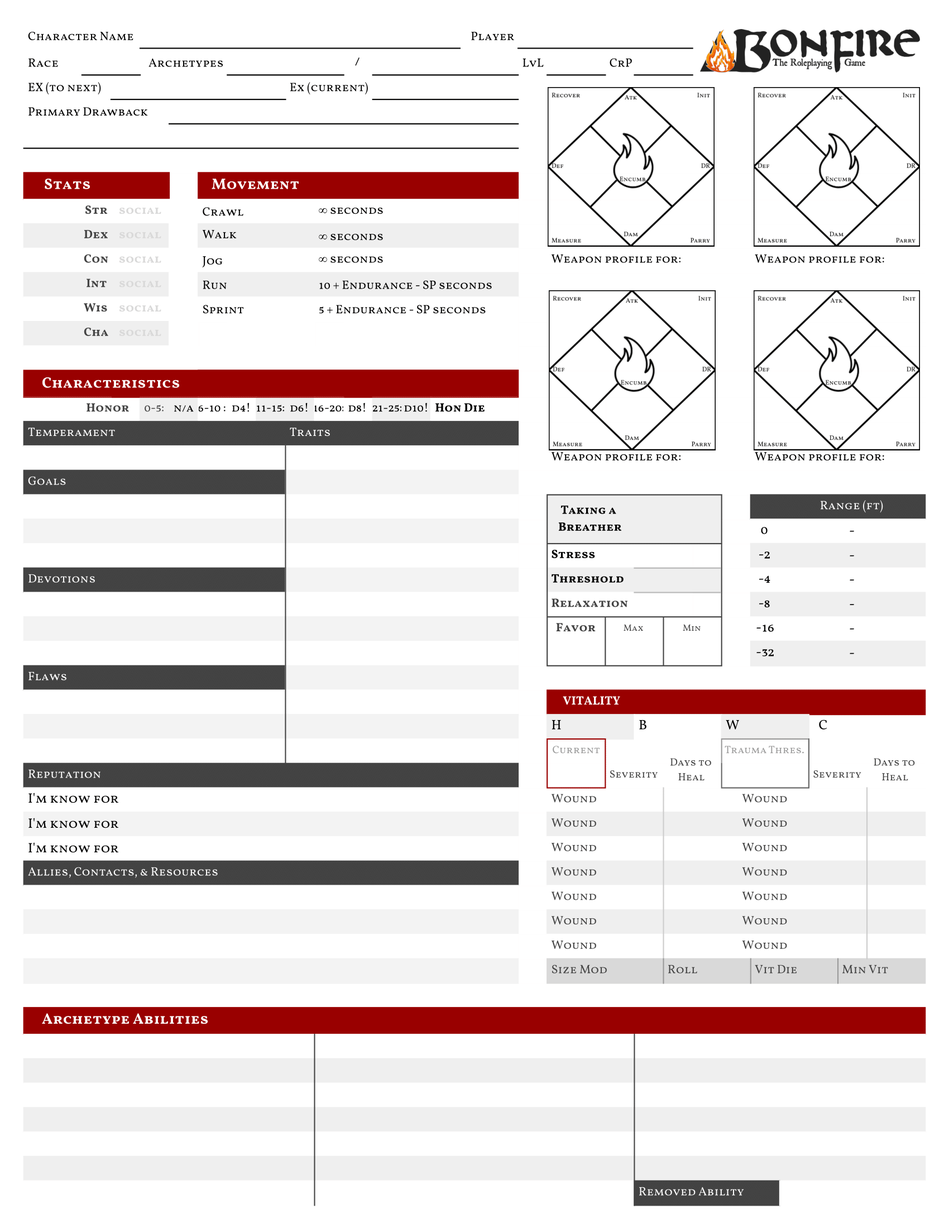
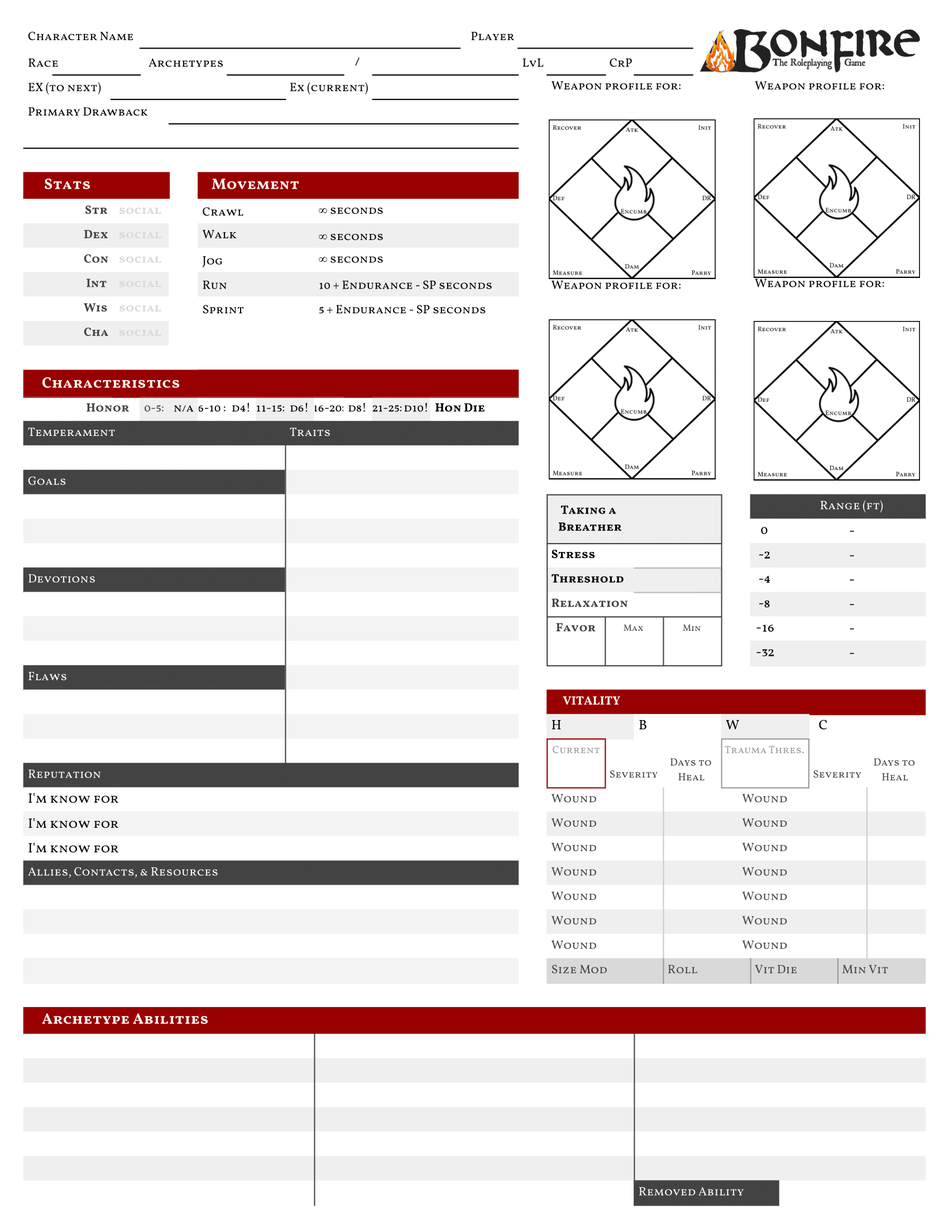
minimum weapon speeds are now considered for weapons

Changed region(s): [[0.7794, 0.0618, 0.9665, 0.4018], [0.5612, 0.0618, 0.7482, 0.4018], [0.7482, 0.0309, 0.7794, 0.0618]]

diff --git a/src/components/character/views/editor.js b/src/components/character/views/editor.js
@@ -199,6 +199,7 @@ render() {
                         <input className="baserecoveryLocation" type="number" defaultValue={onebaserecovery} onChange={event => this.updateAttribute(event.target.value, "onebaserecovery")} />
                         <input className="baseparryLocation" type="number" defaultValue={onebaseparry} onChange={event => this.updateAttribute(event.target.value, "onebaseparry")} />
                         <input className="basemeasureLocation" type="text" defaultValue={onebasemeasure} onChange={event => this.updateAttribute(event.target.value, "onebasemeasure")} />
+                        <input className="basesizeLocation" type="text" defaultValue={onesize} onChange={event => this.updateAttribute(event.target.value, "onesize")} />
                         <input className="typeLocation" type="text" defaultValue={onetype} onChange={event => this.updateAttribute(event.target.value, "onetype")} />
                         <textarea className="bonusLocation bonustextArea" defaultValue={onebonus} onChange={event => this.updateAttribute(event.target.value, "onebonus")} maxLength={"55"}></textarea>
                         <textarea className="traitsLocation traitstextArea" defaultValue={onetraits} onChange={event => this.updateAttribute(event.target.value, "onetraits")} maxLength={"35"}></textarea>
@@ -218,63 +219,66 @@ render() {
                     <div className="weaponProfiletwo">
                         <input className="weaponnameLocation" type="text" defaultValue={twoname} onChange={event => this.updateAttribute(event.target.value, "twoname")} />
                         <input className="basedamageLocation" type="text" defaultValue={twobasedamage} onChange={event => this.updateAttribute(event.target.value, "twobasedamage")} />
-                        <input className="baserecoveryLocation" type="number" defaultValue={twobaserecovery} onChange={event => this.updateAttribute(event.target.value, "twobaserecovery")} />
+                        <input className="baserecoveryLocation" type="number" defaultValue={twobaserecovery} onChange={event => this.updateAttribute(+event.target.value, "twobaserecovery")} />
                         <input className="baseparryLocation" type="number" defaultValue={twobaseparry} onChange={event => this.updateAttribute(event.target.value, "twobaseparry")} />
                         <input className="basemeasureLocation" type="text" defaultValue={twobasemeasure} onChange={event => this.updateAttribute(event.target.value, "twobasemeasure")} />
+                        <input className="basesizeLocation" type="text" defaultValue={twosize} onChange={event => this.updateAttribute(event.target.value, "twosize")} />
                         <input className="typeLocation" type="text" defaultValue={twotype} onChange={event => this.updateAttribute(event.target.value, "twotype")} />
                         <textarea className="bonusLocation bonustextArea" defaultValue={twobonus} onChange={event => this.updateAttribute(event.target.value, "twobonus")} maxLength={"55"}></textarea>
                         <textarea className="traitsLocation traitstextArea" defaultValue={twotraits} onChange={event => this.updateAttribute(event.target.value, "twotraits")} maxLength={"35"}></textarea>
 
-                        <input className="trainattackLocation" type="number" defaultValue={twotrainattack} onChange={event => this.updateAttribute(event.target.value, "twotrainattack")} />
-                        <input className="trainrecoveryLocation" type="number" defaultValue={twotrainrecovery} onChange={event => this.updateAttribute(event.target.value, "twotrainrecovery")} />
-                        <input className="trainparryLocation" type="number" defaultValue={twotrainparry} onChange={event => this.updateAttribute(event.target.value, "twotrainparry")} />
-                        <input className="traindamageLocation" type="number" defaultValue={twotraindamage} onChange={event => this.updateAttribute(event.target.value, "twotraindamage")} />
+                        <input className="trainattackLocation" type="number" defaultValue={twotrainattack} onChange={event => this.updateAttribute(+event.target.value, "twotrainattack")} />
+                        <input className="trainrecoveryLocation" type="number" defaultValue={twotrainrecovery} onChange={event => this.updateAttribute(+event.target.value, "twotrainrecovery")} />
+                        <input className="trainparryLocation" type="number" defaultValue={twotrainparry} onChange={event => this.updateAttribute(+event.target.value, "twotrainparry")} />
+                        <input className="traindamageLocation" type="number" defaultValue={twotraindamage} onChange={event => this.updateAttribute(+event.target.value, "twotraindamage")} />
 
-                        <input className="miscattackLocation" type="number" defaultValue={twomiscattack} onChange={event => this.updateAttribute(event.target.value, "twomiscattack")} />
-                        <input className="miscrecoveryLocation" type="number" defaultValue={twomiscrecovery} onChange={event => this.updateAttribute(event.target.value, "twomiscrecovery")} />
-                        <input className="miscparryLocation" type="number" defaultValue={twomiscparry} onChange={event => this.updateAttribute(event.target.value, "twomiscparry")} />
-                        <input className="miscdamageLocation" type="number" defaultValue={twomiscdamage} onChange={event => this.updateAttribute(event.target.value, "twomiscdamage")} />
-                        <input className="miscinitLocation" type="number" defaultValue={twomiscinit} onChange={event => this.updateAttribute(event.target.value, "twomiscinit")} />
+                        <input className="miscattackLocation" type="number" defaultValue={twomiscattack} onChange={event => this.updateAttribute(+event.target.value, "twomiscattack")} />
+                        <input className="miscrecoveryLocation" type="number" defaultValue={twomiscrecovery} onChange={event => this.updateAttribute(+event.target.value, "twomiscrecovery")} />
+                        <input className="miscparryLocation" type="number" defaultValue={twomiscparry} onChange={event => this.updateAttribute(+event.target.value, "twomiscparry")} />
+                        <input className="miscdamageLocation" type="number" defaultValue={twomiscdamage} onChange={event => this.updateAttribute(+event.target.value, "twomiscdamage")} />
+                        <input className="miscinitLocation" type="number" defaultValue={twomiscinit} onChange={event => this.updateAttribute(+event.target.value, "twomiscinit")} />
                     </div>
 
                     <div className="weaponProfilethree">
                         <input className="weaponnameLocation" type="text" defaultValue={threename} onChange={event => this.updateAttribute(event.target.value, "threename")} />
                         <input className="basedamageLocation" type="text" defaultValue={threebasedamage} onChange={event => this.updateAttribute(event.target.value, "threebasedamage")} />
-                        <input className="baserecoveryLocation" type="number" defaultValue={threebaserecovery} onChange={event => this.updateAttribute(event.target.value, "threebaserecovery")} />
+                        <input className="baserecoveryLocation" type="number" defaultValue={threebaserecovery} onChange={event => this.updateAttribute(+event.target.value, "threebaserecovery")} />
                         <input className="baseparryLocation" type="number" defaultValue={threebaseparry} onChange={event => this.updateAttribute(event.target.value, "threebaseparry")} />
                         <input className="basemeasureLocation" type="text" defaultValue={threebasemeasure} onChange={event => this.updateAttribute(event.target.value, "threebasemeasure")} />
+                        <input className="basesizeLocation" type="text" defaultValue={threesize} onChange={event => this.updateAttribute(event.target.value, "threesize")} />
                         <input className="typeLocation" type="text" defaultValue={threetype} onChange={event => this.updateAttribute(event.target.value, "threetype")} />
                         <textarea className="bonusLocation bonustextArea" defaultValue={threebonus} onChange={event => this.updateAttribute(event.target.value, "threebonus")} maxLength={"55"}></textarea>
                         <textarea className="traitsLocation traitstextArea" defaultValue={threetraits} onChange={event => this.updateAttribute(event.target.value, "threetraits")} maxLength={"35"}></textarea>
 
-                        <input className="trainattackLocation" type="number" defaultValue={threetrainattack} onChange={event => this.updateAttribute(event.target.value, "threetrainattack")} />
-                        <input className="trainrecoveryLocation" type="number" defaultValue={threetrainrecovery} onChange={event => this.updateAttribute(event.target.value, "threetrainrecovery")} />
-                        <input className="trainparryLocation" type="number" defaultValue={threetrainparry} onChange={event => this.updateAttribute(event.target.value, "threetrainparry")} />
-                        <input className="traindamageLocation" type="number" defaultValue={threetraindamage} onChange={event => this.updateAttribute(event.target.value, "threetraindamage")} />
+                        <input className="trainattackLocation" type="number" defaultValue={threetrainattack} onChange={event => this.updateAttribute(+event.target.value, "threetrainattack")} />
+                        <input className="trainrecoveryLocation" type="number" defaultValue={threetrainrecovery} onChange={event => this.updateAttribute(+event.target.value, "threetrainrecovery")} />
+                        <input className="trainparryLocation" type="number" defaultValue={threetrainparry} onChange={event => this.updateAttribute(+event.target.value, "threetrainparry")} />
+                        <input className="traindamageLocation" type="number" defaultValue={threetraindamage} onChange={event => this.updateAttribute(+event.target.value, "threetraindamage")} />
 
-                        <input className="miscattackLocation" type="number" defaultValue={threemiscattack} onChange={event => this.updateAttribute(event.target.value, "threemiscattack")} />
-                        <input className="miscrecoveryLocation" type="number" defaultValue={threemiscrecovery} onChange={event => this.updateAttribute(event.target.value, "threemiscrecovery")} />
-                        <input className="miscparryLocation" type="number" defaultValue={threemiscparry} onChange={event => this.updateAttribute(event.target.value, "threemiscparry")} />
-                        <input className="miscdamageLocation" type="number" defaultValue={threemiscdamage} onChange={event => this.updateAttribute(event.target.value, "threemiscdamage")} />
-                        <input className="miscinitLocation" type="number" defaultValue={threemiscinit} onChange={event => this.updateAttribute(event.target.value, "threemiscinit")} />
+                        <input className="miscattackLocation" type="number" defaultValue={threemiscattack} onChange={event => this.updateAttribute(+event.target.value, "threemiscattack")} />
+                        <input className="miscrecoveryLocation" type="number" defaultValue={threemiscrecovery} onChange={event => this.updateAttribute(+event.target.value, "threemiscrecovery")} />
+                        <input className="miscparryLocation" type="number" defaultValue={threemiscparry} onChange={event => this.updateAttribute(+event.target.value, "threemiscparry")} />
+                        <input className="miscdamageLocation" type="number" defaultValue={threemiscdamage} onChange={event => this.updateAttribute(+event.target.value, "threemiscdamage")} />
+                        <input className="miscinitLocation" type="number" defaultValue={threemiscinit} onChange={event => this.updateAttribute(+event.target.value, "threemiscinit")} />
                     </div>
 
                     <div className="weaponProfilefour">
                         <input className="weaponnameLocation weaponnamefour" type="text" defaultValue={fourname} onChange={event => this.updateAttribute(event.target.value, "fourname")} />
                         <input className="basedamageLocation basedamagefour" type="text" defaultValue={fourbasedamage} onChange={event => this.updateAttribute(event.target.value, "fourbasedamage")} />
-                        <input className="baserecoveryLocation" type="number" defaultValue={fourbaserecovery} onChange={event => this.updateAttribute(event.target.value, "fourbaserecovery")} />
+                        <input className="baserecoveryLocation" type="number" defaultValue={fourbaserecovery} onChange={event => this.updateAttribute(+event.target.value, "fourbaserecovery")} />
                         <input className="typeLocation typefour" type="text" defaultValue={fourtype} onChange={event => this.updateAttribute(event.target.value, "fourtype")} />
+                        <input className="basesizeLocation sizefour" type="text" defaultValue={foursize} onChange={event => this.updateAttribute(event.target.value, "foursize")} />
                         <textarea className="bonusLocation bonustextArea bonusfour" defaultValue={fourbonus} onChange={event => this.updateAttribute(event.target.value, "fourbonus")} maxLength={"80"}></textarea>
                         <textarea className="traitsLocation traitstextArea traitsfour" defaultValue={fourtraits} onChange={event => this.updateAttribute(event.target.value, "fourtraits")} maxLength={"50"}></textarea>
 
-                        <input className="trainattackLocation" type="number" defaultValue={fourtrainattack} onChange={event => this.updateAttribute(event.target.value, "fourtrainattack")} />
-                        <input className="trainrecoveryLocation" type="number" defaultValue={fourtrainrecovery} onChange={event => this.updateAttribute(event.target.value, "fourtrainrecovery")} />
-                        <input className="traindamageLocation" type="number" defaultValue={fourtraindamage} onChange={event => this.updateAttribute(event.target.value, "fourtraindamage")} />
+                        <input className="trainattackLocation" type="number" defaultValue={fourtrainattack} onChange={event => this.updateAttribute(+event.target.value, "fourtrainattack")} />
+                        <input className="trainrecoveryLocation" type="number" defaultValue={fourtrainrecovery} onChange={event => this.updateAttribute(+event.target.value, "fourtrainrecovery")} />
+                        <input className="traindamageLocation" type="number" defaultValue={fourtraindamage} onChange={event => this.updateAttribute(+event.target.value, "fourtraindamage")} />
 
-                        <input className="miscattackLocation" type="number" defaultValue={fourmiscattack} onChange={event => this.updateAttribute(event.target.value, "fourmiscattack")} />
-                        <input className="miscrecoveryLocation" type="number" defaultValue={fourmiscrecovery} onChange={event => this.updateAttribute(event.target.value, "fourmiscrecovery")} />
-                        <input className="miscinitLocation initFour" type="number" defaultValue={fourmiscinit} onChange={event => this.updateAttribute(event.target.value, "fourmiscinit")} />
-                        <input className="miscdamageLocation" type="number" defaultValue={fourmiscdamage} onChange={event => this.updateAttribute(event.target.value, "fourmiscdamage")} />
+                        <input className="miscattackLocation" type="number" defaultValue={fourmiscattack} onChange={event => this.updateAttribute(+event.target.value, "fourmiscattack")} />
+                        <input className="miscrecoveryLocation" type="number" defaultValue={fourmiscrecovery} onChange={event => this.updateAttribute(+event.target.value, "fourmiscrecovery")} />
+                        <input className="miscinitLocation initFour" type="number" defaultValue={fourmiscinit} onChange={event => this.updateAttribute(+event.target.value, "fourmiscinit")} />
+                        <input className="miscdamageLocation" type="number" defaultValue={fourmiscdamage} onChange={event => this.updateAttribute(+event.target.value, "fourmiscdamage")} />
                     </div>
                     <textarea className="generalnotesLocation generalnotestextArea" defaultValue={generalnotes} onChange={event => this.updateAttribute(event.target.value, "generalnotes")} maxLength={"500"}></textarea>
                 </div>

diff --git a/src/components/character/views/viewer.js b/src/components/character/views/viewer.js
@@ -80,6 +80,18 @@ export default class CharacterViewer extends Component {
         return `${small}S ${medium}M ${large}L`
     }
 
+    calculateRecovery = (recovery, size, isMelee) => {
+        let minimumRecovery
+        if (size.toUpperCase() === 'S') {
+            isMelee ? minimumRecovery = 2 : minimumRecovery = 3
+        } else if (size.toUpperCase() === 'M') {
+            isMelee ? minimumRecovery = 3 : minimumRecovery = 4
+        } else {
+            isMelee ? minimumRecovery = 4 : minimumRecovery = 5
+        }
+        return recovery < minimumRecovery ? minimumRecovery : recovery
+    }
+
     render() {
         let { name, id, race, primarya, secondarya, primarylevel, secondarylevel, level, cha, con, crp, dex, drawback, excurrent, favormax, honor, sizemod, str, stressthreshold, vitality, vitalitydice, vitalityroll, wis, int, extolevel, strData, dexData, conData, intData, wisData, chaData, extrahonordice, temperament, goals, devotions, flaws, traits, reputation, contacts,
             abilitiesone, abilitiestwo, abilitiesthree, removedability, maxrange, generalnotes, copper, silver, gold, platinium, gearone, geartwo, gearthree, gearfour, crawl, walk, jog, run, sprint, onetrainattack, onetrainparry, onetrainrecovery, onetraindamage, onemiscattack, onemiscparry, onemiscrecovery, onemiscdamage, onemiscinit, onename, onebasedamage, onebaserecovery,
@@ -95,6 +107,11 @@ export default class CharacterViewer extends Component {
             , { downloadMode, changeEditStatus } = this.props
             , left = calculateLeft(shownHonor)
             , circleFill = calculateHumanHonorDice(race, shownHonor)
+            , weaponOneRecovery = onebaserecovery + onetrainrecovery + onemiscrecovery
+            , weaponTwoRecovery = twobaserecovery + twotrainrecovery + twomiscrecovery
+            , weaponThreeRecovery = threebaserecovery + threetrainrecovery + threemiscrecovery
+            , weaponFourRecovery = fourbaserecovery + fourtrainrecovery + fourmiscrecovery
+            , armorRecovery = armorbaserecovery + armortrainrecovery + armormiscrecovery > 0 ? armorbaserecovery + armortrainrecovery + armormiscrecovery : 0
 
         return (
             <div>
@@ -143,7 +160,7 @@ export default class CharacterViewer extends Component {
                         <p className="contactsLocation">{contacts}</p>
 
                         <div className="weaponsquare weaponone">
-                            <p className="recovery">{onebaserecovery - (armorbaserecovery + armortrainrecovery + armormiscrecovery > 0 ? armorbaserecovery + armortrainrecovery + armormiscrecovery : 0) + (onetrainrecovery + onemiscrecovery)}</p>
+                            <p className="recovery">{this.calculateRecovery(weaponOneRecovery + armorRecovery, onesize, true)}</p>
                             <p className="attack">{onetrainattack + onemiscattack + dexData.attack + intData.attack}</p>
                             <p className="init">{dexData.init + wisData.init + (armorbaseinit + armortraininit + armormiscinit > 0 ? armorbaseinit + armortraininit + armormiscinit : 0) + onemiscinit}</p>
 
@@ -162,7 +179,7 @@ export default class CharacterViewer extends Component {
                         </div>
 
                         <div className="weaponsquare weapontwo">
-                            <p className="recovery">{twobaserecovery - (armorbaserecovery + armortrainrecovery + armormiscrecovery > 0 ? armorbaserecovery + armortrainrecovery + armormiscrecovery : 0) + (twotrainrecovery + twomiscrecovery)}</p>
+                            <p className="recovery">{this.calculateRecovery(weaponTwoRecovery + armorRecovery, twosize, true)}</p>
                             <p className="attack">{twotrainattack + twomiscattack + dexData.attack + intData.attack}</p>
                             <p className="init">{dexData.init + wisData.init + (armorbaseinit + armortraininit + armormiscinit > 0 ? armorbaseinit + armortraininit + armormiscinit : 0) + twomiscinit}</p>
 
@@ -181,7 +198,7 @@ export default class CharacterViewer extends Component {
                         </div>
 
                         <div className="weaponsquare weaponthree">
-                            <p className="recovery">{threebaserecovery - (armorbaserecovery + armortrainrecovery + armormiscrecovery > 0 ? armorbaserecovery + armortrainrecovery + armormiscrecovery : 0) + (threetrainrecovery + threemiscrecovery)}</p>
+                            <p className="recovery">{this.calculateRecovery(weaponThreeRecovery + armorRecovery, threesize, true)}</p>
                             <p className="attack">{threetrainattack + threemiscattack + dexData.attack + intData.attack}</p>
                             <p className="init">{dexData.init + wisData.init + (armorbaseinit + armortraininit + armormiscinit > 0 ? armorbaseinit + armortraininit + armormiscinit : 0) + threemiscinit}</p>
 
@@ -200,7 +217,7 @@ export default class CharacterViewer extends Component {
                         </div>
 
                         <div className="weaponsquare weaponfour">
-                            <p className="recovery">{fourbaserecovery - (armorbaserecovery + armortrainrecovery + armormiscrecovery > 0 ? armorbaserecovery + armortrainrecovery + armormiscrecovery : 0) + (fourtrainrecovery + fourmiscrecovery)}</p>
+                            <p className="recovery">{this.calculateRecovery(weaponFourRecovery + armorRecovery, foursize, false)}</p>
                             <p className="attack">{fourtrainattack + fourmiscattack + dexData.attack + intData.attack}</p>
                             <p className="init">{dexData.init + wisData.init + (armorbaseinit + armortraininit + armormiscinit > 0 ? armorbaseinit + armortraininit + armormiscinit : 0) + fourmiscinit}</p>
 
@@ -332,7 +349,7 @@ export default class CharacterViewer extends Component {
 
                         <p className="armortotaldefLocation">{armorbasedef + armortrainingdef + armormiscdef > 0 ? armorbasedef + armortrainingdef + armormiscdef : 0}</p>
                         <p className="armortotalencumbLocation">{armorbaseencumb + armortrainencumb + armormiscencumb > 0 ? armorbaseencumb + armortrainencumb + armormiscencumb : 0}</p>
-                        <p className="armortotalrecoveryLocation">{armorbaserecovery + armortrainrecovery + armormiscrecovery > 0 ? armorbaserecovery + armortrainrecovery + armormiscrecovery : 0}</p>
+                        <p className="armortotalrecoveryLocation">{armorRecovery}</p>
                         <p className="armortotalinitLocation">{armorbaseinit + armortraininit + armormiscinit > 0 ? armorbaseinit + armortraininit + armormiscinit : 0}</p>
 
                         <p className="shieldnameLocation">{shieldname}</p>
@@ -367,6 +384,7 @@ export default class CharacterViewer extends Component {
                             <p className="baserecoveryLocation">{onebaserecovery}</p>
                             <p className="baseparryLocation">{onebaseparry}</p>
                             <p className="basemeasureLocation">{onebasemeasure}</p>
+                            <p className="basesizeLocation">{onesize}</p>
                             <p className="typeLocation">{onetype}</p>
                             <p className="bonusLocation">{onebonus}</p>
                             <p className="traitsLocation">{onetraits}</p>
@@ -383,7 +401,7 @@ export default class CharacterViewer extends Component {
                             <p className="miscinitLocation">{onemiscinit}</p>
 
                             <p className="totalattackLocation">{onetrainattack + onemiscattack}</p>
-                            <p className="totalrecoveryLocation">{onetrainrecovery + onemiscrecovery}</p>
+                            <p className="totalrecoveryLocation">{weaponOneRecovery}</p>
                             <p className="totalparryLocation">{onetrainparry + onemiscparry}</p>
                             <p className="totaldamageLocation">{onetraindamage + onemiscdamage}</p>
                             <p className="totalinitLocation">{onemiscinit}</p>
@@ -395,6 +413,7 @@ export default class CharacterViewer extends Component {
                             <p className="baserecoveryLocation">{twobaserecovery}</p>
                             <p className="baseparryLocation">{twobaseparry}</p>
                             <p className="basemeasureLocation">{twobasemeasure}</p>
+                            <p className="basesizeLocation">{twosize}</p>
                             <p className="typeLocation">{twotype}</p>
                             <p className="bonusLocation">{twobonus}</p>
                             <p className="traitsLocation">{twotraits}</p>
@@ -423,6 +442,7 @@ export default class CharacterViewer extends Component {
                             <p className="baserecoveryLocation">{threebaserecovery}</p>
                             <p className="baseparryLocation">{threebaseparry}</p>
                             <p className="basemeasureLocation">{threebasemeasure}</p>
+                            <p className="basesizeLocation">{threesize}</p>
                             <p className="typeLocation">{threetype}</p>
                             <p className="bonusLocation">{threebonus}</p>
                             <p className="traitsLocation">{threetraits}</p>
@@ -450,6 +470,7 @@ export default class CharacterViewer extends Component {
                             <p className="basedamageLocation">{fourbasedamage}</p>
                             <p className="baserecoveryLocation">{fourbaserecovery}</p>
                             <p className="typeLocation typefour">{fourtype}</p>
+                            <p className="basesizeLocation sizefour">{foursize}</p>
                             <p className="bonusLocation bonusfour">{fourbonus}</p>
                             <p className="traitsLocation traitsfour">{fourtraits}</p>
 

diff --git a/server/editorController.js b/server/editorController.js
@@ -1,11 +1,11 @@
 const { assembleCharacter } = require('./viewController')
 
 function setToMin (value, min) {
-    return value >= min ? value : min
+    return +value >= min ? +value : min
 }
 
 function setToMax (value, max) {
-    return value <= max ? value : max
+    return +value <= max ? +value : max
 }
 module.exports = { 
     updateOrAddCharacter: (req, res) => {
@@ -91,8 +91,8 @@ module.exports = {
                     return db.upsert.gearfour(gearfourid, id, title, value)
                 })
             }))
-            promiseArray.push(db.upsert.weaponone(oneweaponid, id, onetrainattack, onetrainparry, onetrainrecovery, onetraindamage, onemiscattack, onemiscparry, onemiscrecovery, onemiscdamage, onemiscinit, onename, onebasedamage, onebaserecovery, onebaseparry, onebasemeasure, onetype, onebonus, onetraits, onesize))
-            promiseArray.push(db.upsert.weapontwo(twoweaponid, id, twotrainattack, twotrainparry, twotrainrecovery, twotraindamage, twomiscattack, twomiscparry, twomiscrecovery, twomiscdamage, twomiscinit, twoname, twobasedamage, twobaserecovery, twobaseparry, twobasemeasure, twotype, twobonus, twotraits, twosize))
+            promiseArray.push(db.upsert.weaponone(oneweaponid, id, onetrainattack, onetrainparry, onetrainrecovery, onetraindamage, onemiscattack, onemiscparry, +onemiscrecovery, onemiscdamage, onemiscinit, onename, onebasedamage, onebaserecovery, onebaseparry, onebasemeasure, onetype, onebonus, onetraits, onesize))
+            promiseArray.push(db.upsert.weapontwo(twoweaponid, id, twotrainattack, twotrainparry, twotrainrecovery, twotraindamage, twomiscattack, twomiscparry, +twomiscrecovery, twomiscdamage, twomiscinit, twoname, twobasedamage, twobaserecovery, twobaseparry, twobasemeasure, twotype, twobonus, twotraits, twosize))
             promiseArray.push(db.upsert.weaponthree(threeweaponid, id, threetrainattack, threetrainparry, threetrainrecovery, threetraindamage, threemiscattack, threemiscparry, threemiscrecovery, threemiscdamage, threemiscinit, threename, threebasedamage, threebaserecovery, threebaseparry, threebasemeasure, threetype, threebonus, threetraits, threesize))
             promiseArray.push(db.upsert.weaponfour(fourweaponid, id, fourtrainattack, fourtrainrecovery, fourtraindamage, fourmiscattack, fourmiscrecovery, fourmiscdamage, fourmiscinit, fourname, fourbasedamage, fourbaserecovery, fourtype, fourbonus, fourtraits, foursize))
 

diff --git a/src/components/character/character.css b/src/components/character/character.css
@@ -428,23 +428,23 @@ input.excurrentLocation {
 }
 
 .weaponone {
-    top: 75px;
+    top: 106px;
     left: 471px;
 }
 
 .weapontwo {
-    top: 75px;
+    top: 106px;
     left: 648px;
 }
 
 .weaponthree {
-    top: 250px;
+    top: 275px;
     left: 472px;
 }
 
 .weaponfour {
     left: 648px;
-    top: 250px;
+    top: 275px;
 }
 
 .weaponsquare .attack {
@@ -538,7 +538,7 @@ input.excurrentLocation {
 
 .weaponsquare .name {
     position: absolute;
-    top: 151px;
+    top: -23px;
     left: 1px;
     height: 20px;
     width: 144px;
@@ -969,14 +969,14 @@ input.excurrentLocation {
     width: 55px;
 }
 .shieldcoverLocation {
+    top: 853px;
+    left: 65px;
+    width: 104px;
+}
+.shieldsizeLocation {
     top: 832px;
     left: 138px;
     width: 33px;
-}
-.shieldsizeLocation {
-    top: 853px;
-    left: 51px;
-    width: 44px;
 }
 .shieldbonusLocation {
     width: 150px;
@@ -1154,10 +1154,21 @@ input.excurrentLocation {
     text-align: center;
 }
 .basemeasureLocation {
-    width: 90px;
+    width: 35px;
     top: 66px;
-    left: 60px;
+    left: 40px;
     text-align: center;
+}
+.basesizeLocation {
+    width: 43px;
+    top: 66px;
+    left: 106px;
+    text-align: center;
+}
+.sizefour {
+    left: 35px;
+    text-align: left;
+    width: 139px;
 }
 .typeLocation {
     width: 65px;
@@ -1187,9 +1198,10 @@ input.excurrentLocation {
 .bonusfour {
     max-width: 173px;
     min-width: 173px;
-    max-height: 87px;
-    min-height: 87px;
-    top: 65px !important;
+    max-height: 63px;
+    min-height: 63px;
+    overflow: hidden;
+    top: 88px !important;
 }
 
 .traitsLocation {
@@ -1216,7 +1228,7 @@ textarea.traitsLocation {
     min-height: 60px;
 }
 textarea.traitsfour {
-    top: 61px !important;
+    top: 83px !important;
 }
 
 .trainattackLocation {

diff --git a/src/components/character/views/components/viewSkillList.js b/src/components/character/views/components/viewSkillList.js
@@ -16,7 +16,7 @@ export default class ViewSkillList extends Component {
     };
 
     render() {
-        let { stylings, listArray, limit } = this.state
+        let { stylings, listArray } = this.state
         let listOfSkills = listArray.map((item, i) => {
             let rowStyles = {
                 top: `${i * 21}px`
